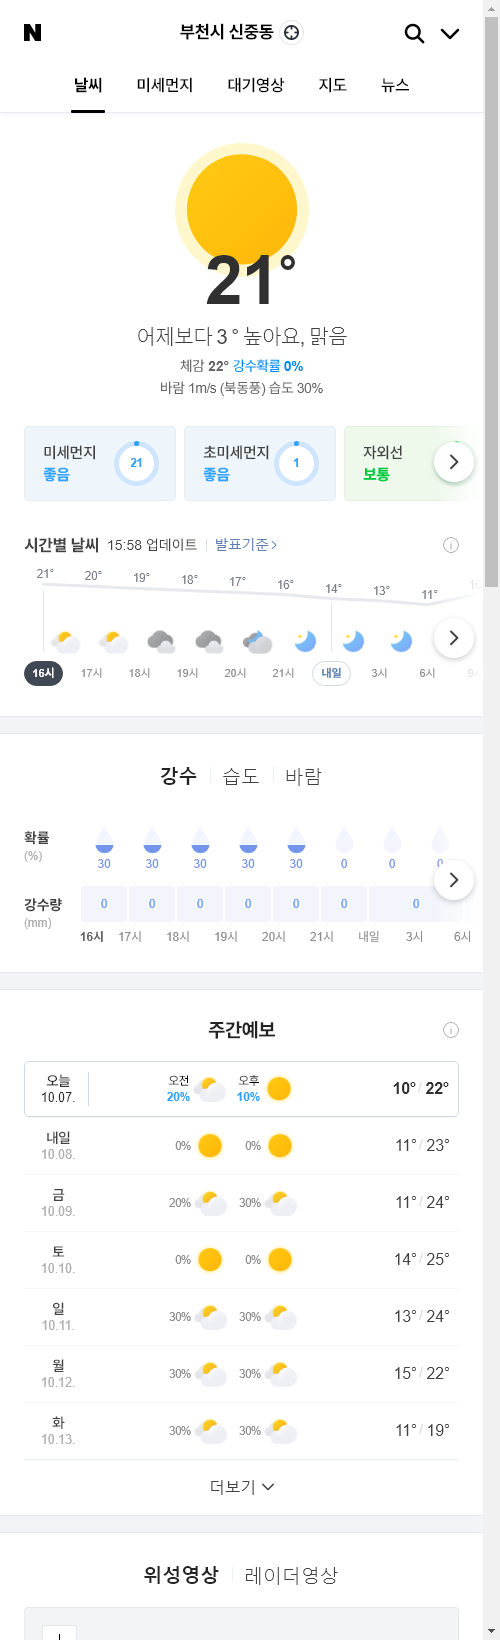
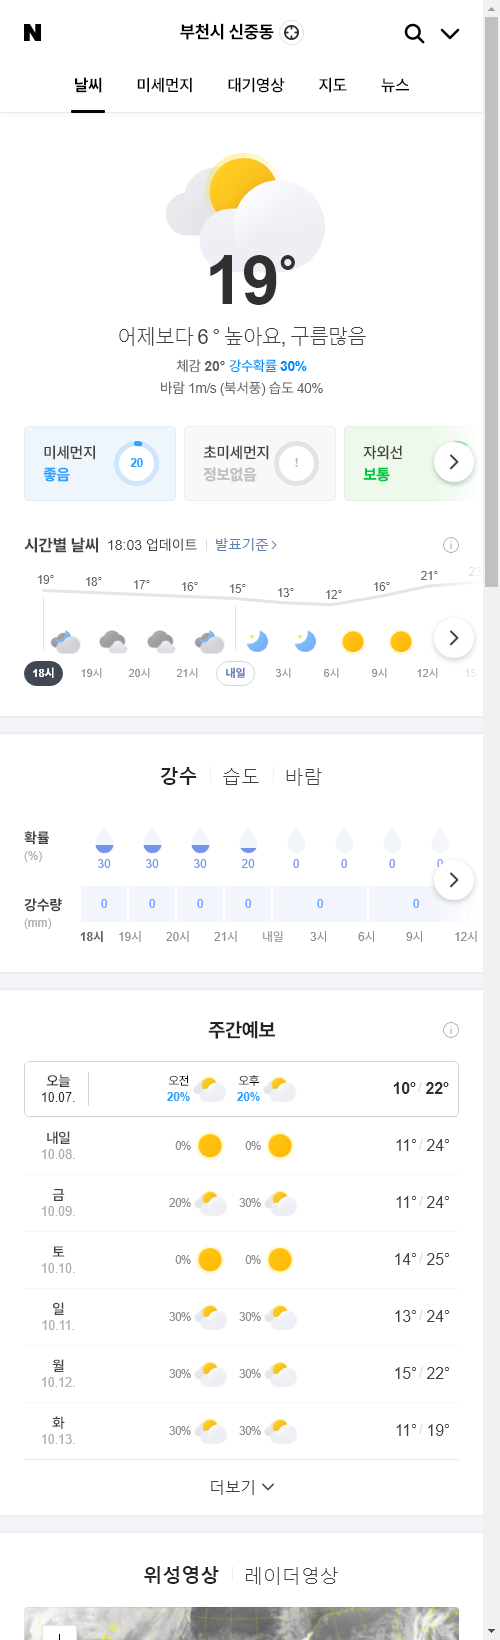
update result

diff --git a/README.md b/README.md
@@ -1,5 +1,5 @@
-##  2020-10-07 16:02:51   수요일 
-##### 날씨   -   어제보다 3 ° 높아요, 맑음
+##  2020-10-07 18:05:48   수요일 
+##### 날씨   -   어제보다 6 ° 높아요, 구름많음
 <center><img src="../img/naver_weather_week.png"></center>
 ----
 ----
@@ -17,13 +17,13 @@
 <tr align = "right" > <td>NASDAQ</td><td>11,154.6</td><td>-177.89</td><td><font size="3" color="blue" >-1.57%</font></td><td><font size="3" color="black">0</font></td><td><font size="3" color="black">0</font></td><td>0</td>  </tr>
 <tr align = "right" > <td>S&P</td><td>3,360.95</td><td>-47.68</td><td><font size="3" color="blue" >-1.4%</font></td><td><font size="3" color="black">0</font></td><td><font size="3" color="black">0</font></td><td>0</td>  </tr>
 <tr align = "right" > <td>SHANHAI</td><td>3,218.05</td><td>-6.31</td><td><font size="3" color="blue" >-0.2%</font></td><td><font size="3" color="black">0</font></td><td><font size="3" color="black">0</font></td><td>0</td>  </tr>
-<tr align = "right" > <td>INDIA</td><td>39,835.98</td><td>261.41</td><td><font size="3" color="red" >0.66%</font></td><td><font size="3" color="black">0</font></td><td><font size="3" color="black">0</font></td><td>0</td>  </tr>
+<tr align = "right" > <td>INDIA</td><td>39,904.61</td><td>330.04</td><td><font size="3" color="red" >0.83%</font></td><td><font size="3" color="black">0</font></td><td><font size="3" color="black">0</font></td><td>0</td>  </tr>
 </table>
 ----
 ##### 시장
 <table border="1" bordercolor="blue" align = "center" >
 <tr align = "right" > <td>Item</td><td>Price</td><td>Diff</td><td>Rate</td><td>Buy</td><td>Sell</td><td>...</td>  </tr>
-<tr align = "right" > <td>USD</td><td>1,158.0</td><td>-3.0</td><td><font size="3" color="blue">-0.26%</font></td><td><font size="3" color="black">1,150</font></td><td><font size="3" color="black">0</font></td><td>0</td>  </tr>
+<tr align = "right" > <td>USD</td><td>1,158.0</td><td>-3.5</td><td><font size="3" color="blue">-0.3%</font></td><td><font size="3" color="black">1,150</font></td><td><font size="3" color="black">0</font></td><td>0</td>  </tr>
 <tr align = "right" > <td>WTI</td><td>40.67</td><td>1.45</td><td><font size="3" color="red">3.69%</font></td><td><font size="3" color="black">29.0</font></td><td><font size="3" color="black">0</font></td><td>0</td>  </tr>
 <tr align = "right" > <td>GOLD</td><td>1,901.0</td><td>-11.4</td><td><font size="3" color="blue">-0.59%</font></td><td><font size="3" color="black">0</font></td><td><font size="3" color="black">0</font></td><td>0</td>  </tr>
 </table>
